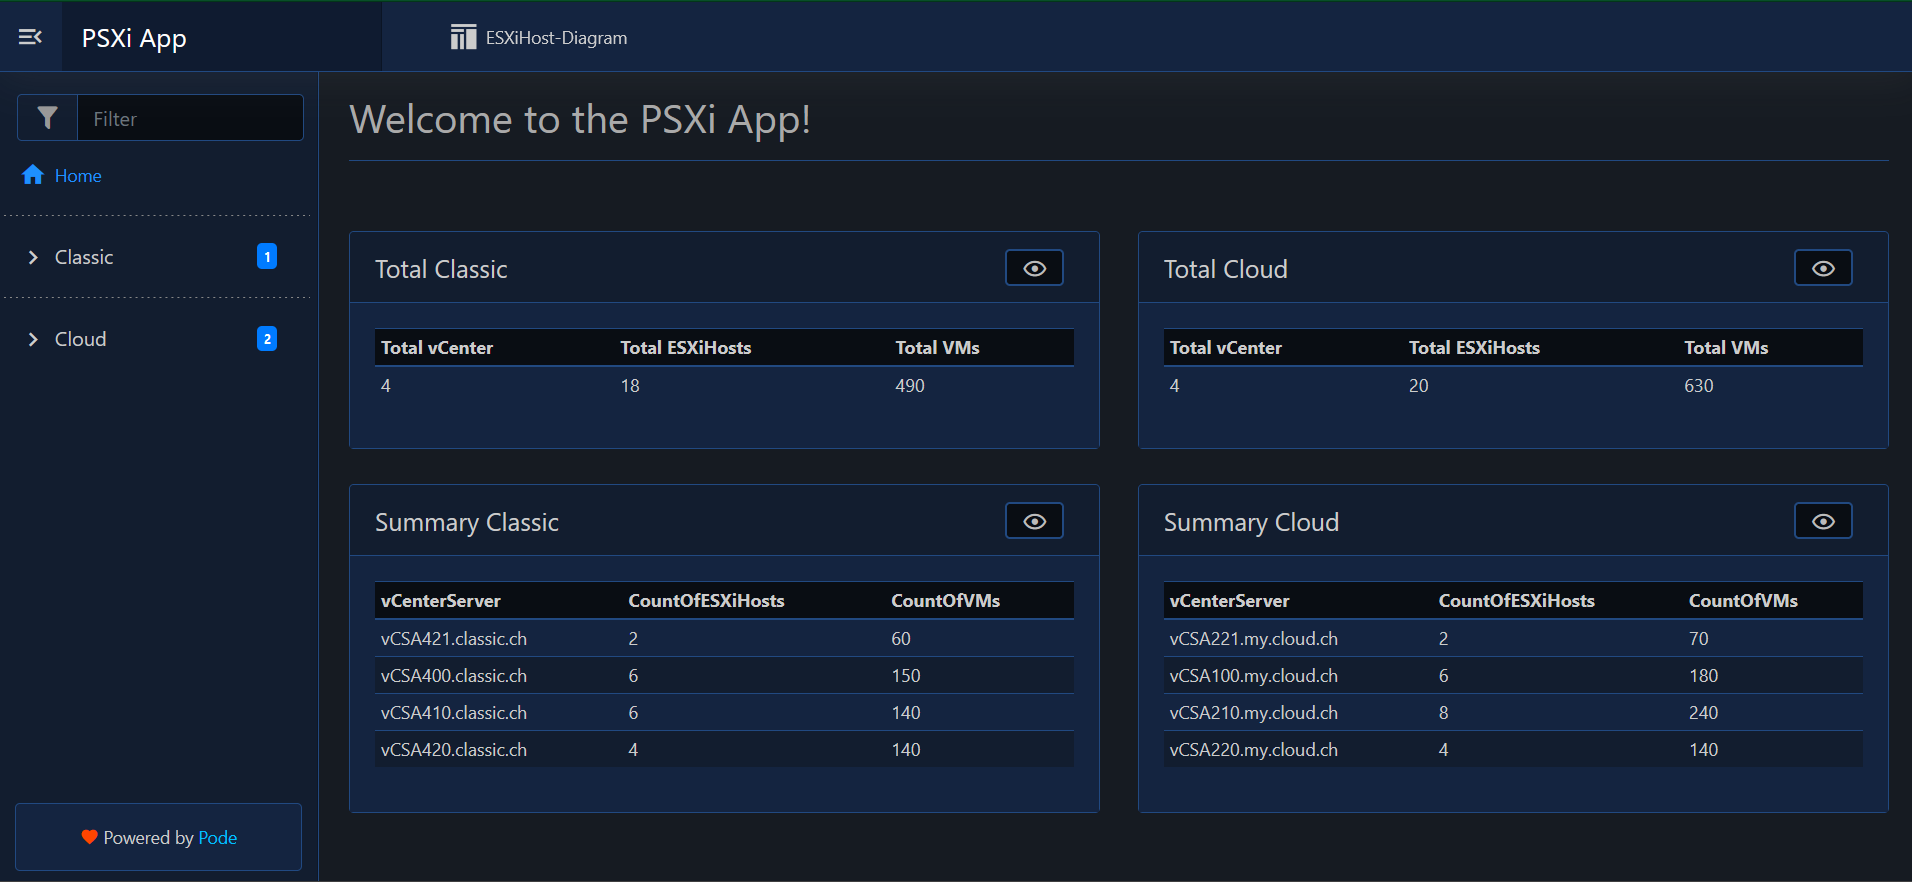
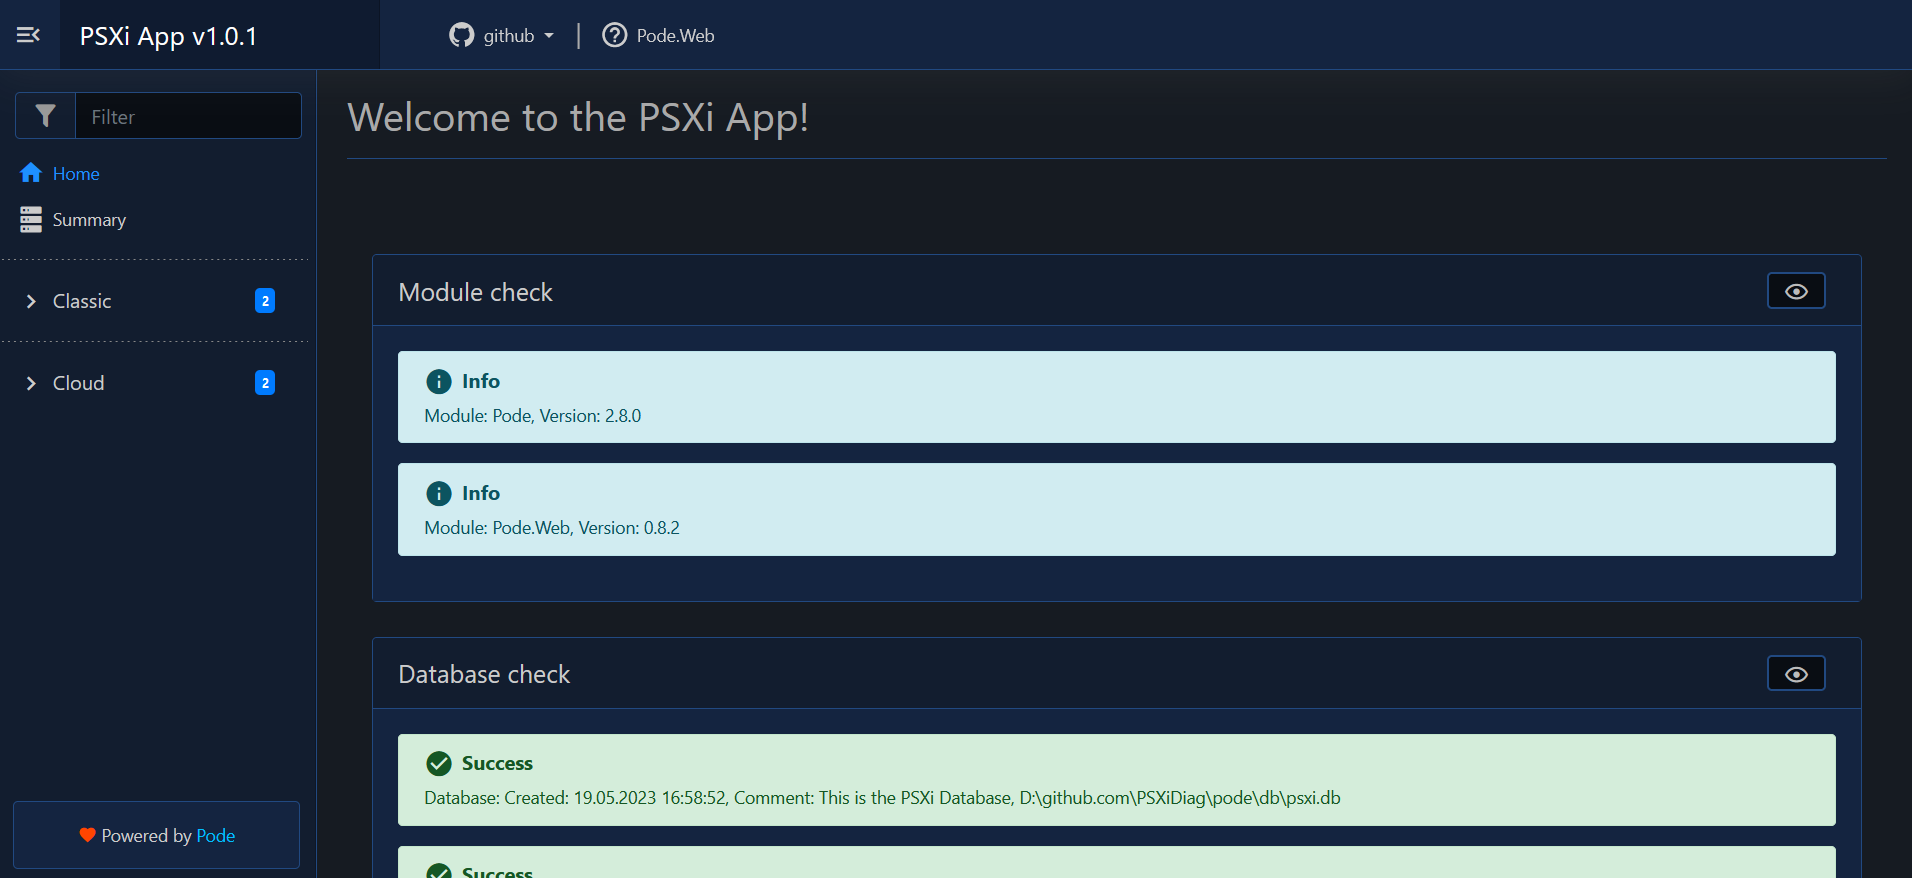
Update to v1.0.1

diff --git a/pode/views/Cloud-ESXiHost-Diagram.html b/pode/views/Cloud-ESXiHost-Diagram.html
@@ -1,4 +1,4 @@
-<html ><head ><meta charset="UTF-8"  /><meta name="author" content="Martin Walther"  /><meta name="keywords" content="PSHTML, PowerShell, Mermaid Diagram"  /><meta name="description" content="PsMmaDiagram builds Mermaid Diagrams as HTML-Files with PSHTML from native PowerShell-Scripts"  /><link href="\assets\BootStrap\bootstrap.min.css" rel="stylesheet"  /><link href="\assets\style\style.css" rel="stylesheet"  /><script src="\assets\BootStrap\bootstrap.js"  ></script><script src="\assets\Jquery\jquery.min.js"  ></script><script src="\assets\mermaid\mermaid.min.js"  ></script><script src="mermaid.initialize({startOnLoad:true})"  ></script><title >New-PshtmlESXiDiag for Pode server</title></head><Body ><Section Id="section"  ><nav Class="navbar navbar-expand-sm bg-dark navbar-dark sticky-top"  ><a href="#" Target="_self" Class="navbar-brand"  >HOME</a><button Class="navbar-toggler" type="button" data-toggle="collapse" data-target="#collapsibleNavbar"  ><span Class="navbar-toggler-icon"  ></span></button><div Id="collapsibleNavbar" Class="collapse navbar-collapse"  ><ul Class="navbar-nav"  ><li Class="nav-item"  ><a href="#VCSA00DEV" Target="_self" Class="nav-link"  >VCSA00DEV</a></li><li Class="nav-item"  ><a href="#VCSA00INT" Target="_self" Class="nav-link"  >VCSA00INT</a></li><li Class="nav-item"  ><a href="#VCSA10PRD" Target="_self" Class="nav-link"  >VCSA10PRD</a></li><li Class="nav-item"  ><a href="#VCSA21PRD" Target="_self" Class="nav-link"  >VCSA21PRD</a></li></ul></div></nav><div Class="container-fluid" Style="background-color:#142440"  ><div Id="Content" Class="container-fluid" Style="background-color:#142440"  ><article Id="mermaid"  ><h3 Id="VCSA00DEV" Style="text-align: center"  ><a href="https://vcsa00dev.cloud.ch/ui/" Target="_blank"  >vCenter VCSA00DEV</a></h3><hr /><p Style="color:#ccc"  >Total in VCSA00DEV:  <span Class="badge bg-info"  >2 Cluster</span> <span Class="badge bg-primary"  >7 ESXiHosts</span> <span Class="badge bg-danger"  >6.5.0 (1)</span> <span Class="badge bg-warning"  >6.7.0 (6)</span></p><div Class="mermaid" Style="text-align: center"  >classDiagram
+<html ><head ><meta charset="UTF-8"  /><meta name="author" content="Martin Walther"  /><meta name="keywords" content="PSHTML, PowerShell, Mermaid Diagram"  /><meta name="description" content="PsMmaDiagram builds Mermaid Diagrams as HTML-Files with PSHTML from native PowerShell-Scripts"  /><link href="\assets\BootStrap\bootstrap.min.css" rel="stylesheet"  /><link href="\assets\style\style.css" rel="stylesheet"  /><script src="\assets\BootStrap\bootstrap.js"  ></script><script src="\assets\Jquery\jquery.min.js"  ></script><script src="\assets\mermaid\mermaid.min.js"  ></script><script src="mermaid.initialize({startOnLoad:true})"  ></script><title >New-PshtmlESXiDiag for Pode server</title></head><Body ><Section Id="section"  ><nav Class="navbar navbar-expand-sm bg-dark navbar-dark sticky-top"  ><a Class="navbar-brand" Target="_self" href="#"  >HOME</a><button Class="navbar-toggler" data-toggle="collapse" data-target="#collapsibleNavbar" type="button"  ><span Class="navbar-toggler-icon"  ></span></button><div Id="collapsibleNavbar" Class="collapse navbar-collapse"  ><ul Class="navbar-nav"  ><li Class="nav-item"  ><a Class="nav-link" Target="_self" href="#VCSA00DEV"  >VCSA00DEV</a></li><li Class="nav-item"  ><a Class="nav-link" Target="_self" href="#VCSA00INT"  >VCSA00INT</a></li><li Class="nav-item"  ><a Class="nav-link" Target="_self" href="#VCSA10PRD"  >VCSA10PRD</a></li><li Class="nav-item"  ><a Class="nav-link" Target="_self" href="#VCSA21PRD"  >VCSA21PRD</a></li></ul></div></nav><div Class="container-fluid" Style="background-color:#142440"  ><div Id="Content" Class="container-fluid" Style="background-color:#142440"  ><article Id="mermaid"  ><h3 Id="VCSA00DEV" Style="text-align: center"  ><a Target="_blank" href="https://vcsa00dev.cloud.ch/ui/"  >vCenter VCSA00DEV</a></h3><hr /><p Style="color:#ccc"  >Total in VCSA00DEV:  <span Class="badge bg-info"  >2 Cluster</span> <span Class="badge bg-primary"  >7 ESXiHosts</span> <span Class="badge bg-danger"  >6.5.0 (1)</span> <span Class="badge bg-warning"  >6.7.0 (6)</span></p><div Class="mermaid" Style="text-align: center"  >classDiagram
 VC1_VCSA00DEV -- VC1C1_Development
 VC1_VCSA00DEV : + Development
 VC1C1_Development : + ProLiant BL460c G6
@@ -30,7 +30,7 @@ VC1C2_ProLiant DL380 G7 -- VC1C2_Connected
 VC1C2_Connected : - esxi551, ESXi 6.7.0, ProLiant DL380 G7
 VC1C2_Connected : - esxi552, ESXi 6.7.0, ProLiant DL380 G7
 VC1C2_Connected : - esxi553, ESXi 6.7.0, ProLiant DL380 G7
-</div></article></div><div Id="Content" Class="container-fluid" Style="background-color:#142440"  ><article Id="mermaid"  ><h3 Id="VCSA00INT" Style="text-align: center"  ><a href="https://vcsa00int.cloud.ch/ui/" Target="_blank"  >vCenter VCSA00INT</a></h3><hr /><p Style="color:#ccc"  >Total in VCSA00INT:  <span Class="badge bg-info"  >1 Cluster</span> <span Class="badge bg-primary"  >6 ESXiHosts</span> <span Class="badge bg-success"  >7.0.3 (6)</span></p><div Class="mermaid" Style="text-align: center"  >classDiagram
+</div></article></div><div Id="Content" Class="container-fluid" Style="background-color:#142440"  ><article Id="mermaid"  ><h3 Id="VCSA00INT" Style="text-align: center"  ><a Target="_blank" href="https://vcsa00int.cloud.ch/ui/"  >vCenter VCSA00INT</a></h3><hr /><p Style="color:#ccc"  >Total in VCSA00INT:  <span Class="badge bg-info"  >1 Cluster</span> <span Class="badge bg-primary"  >6 ESXiHosts</span> <span Class="badge bg-success"  >7.0.3 (6)</span></p><div Class="mermaid" Style="text-align: center"  >classDiagram
 VC1_VCSA00INT -- VC1C1_vSAN
 VC1_VCSA00INT : + vSAN
 VC1C1_vSAN : + ProLiant DL380 Gen10
@@ -43,7 +43,7 @@ VC1C1_Maintenance : - esxi783, ESXi 7.0.3, ProLiant DL380 Gen10
 VC1C1_Maintenance : - esxi981, ESXi 7.0.3, ProLiant DL380 Gen10
 VC1C1_Maintenance : - esxi982, ESXi 7.0.3, ProLiant DL380 Gen10
 VC1C1_Maintenance : - esxi983, ESXi 7.0.3, ProLiant DL380 Gen10
-</div></article></div><div Id="Content" Class="container-fluid" Style="background-color:#142440"  ><article Id="mermaid"  ><h3 Id="VCSA10PRD" Style="text-align: center"  ><a href="https://vcsa10prd.cloud.ch/ui/" Target="_blank"  >vCenter VCSA10PRD</a></h3><hr /><p Style="color:#ccc"  >Total in VCSA10PRD:  <span Class="badge bg-info"  >7 Cluster</span> <span Class="badge bg-primary"  >51 ESXiHosts</span> <span Class="badge bg-danger"  >6.5.0 (31)</span> <span Class="badge bg-success"  >7.0.3 (20)</span></p><div Class="mermaid" Style="text-align: center"  >classDiagram
+</div></article></div><div Id="Content" Class="container-fluid" Style="background-color:#142440"  ><article Id="mermaid"  ><h3 Id="VCSA10PRD" Style="text-align: center"  ><a Target="_blank" href="https://vcsa10prd.cloud.ch/ui/"  >vCenter VCSA10PRD</a></h3><hr /><p Style="color:#ccc"  >Total in VCSA10PRD:  <span Class="badge bg-info"  >7 Cluster</span> <span Class="badge bg-primary"  >51 ESXiHosts</span> <span Class="badge bg-danger"  >6.5.0 (31)</span> <span Class="badge bg-success"  >7.0.3 (20)</span></p><div Class="mermaid" Style="text-align: center"  >classDiagram
 VC1_VCSA10PRD -- VC1C1_Backup
 VC1_VCSA10PRD : + Backup
 VC1C1_Backup : + ProLiant DL380 Gen10
@@ -153,7 +153,7 @@ VC1C7_Maintenance : - esxi707, ESXi 7.0.3, Synergy 480 Gen10
 VC1C7_Maintenance : - esxi708, ESXi 7.0.3, Synergy 480 Gen10
 VC1C7_Maintenance : - esxi907, ESXi 7.0.3, Synergy 480 Gen10
 VC1C7_Maintenance : - esxi908, ESXi 7.0.3, Synergy 480 Gen10
-</div></article></div><div Id="Content" Class="container-fluid" Style="background-color:#142440"  ><article Id="mermaid"  ><h3 Id="VCSA21PRD" Style="text-align: center"  ><a href="https://vcsa21prd.cloud.ch/ui/" Target="_blank"  >vCenter VCSA21PRD</a></h3><hr /><p Style="color:#ccc"  >Total in VCSA21PRD:  <span Class="badge bg-info"  >3 Cluster</span> <span Class="badge bg-primary"  >15 ESXiHosts</span> <span Class="badge bg-dark"  >6.0.0 (8)</span> <span Class="badge bg-danger"  >6.5.0 (7)</span></p><div Class="mermaid" Style="text-align: center"  >classDiagram
+</div></article></div><div Id="Content" Class="container-fluid" Style="background-color:#142440"  ><article Id="mermaid"  ><h3 Id="VCSA21PRD" Style="text-align: center"  ><a Target="_blank" href="https://vcsa21prd.cloud.ch/ui/"  >vCenter VCSA21PRD</a></h3><hr /><p Style="color:#ccc"  >Total in VCSA21PRD:  <span Class="badge bg-info"  >3 Cluster</span> <span Class="badge bg-primary"  >15 ESXiHosts</span> <span Class="badge bg-dark"  >6.0.0 (8)</span> <span Class="badge bg-danger"  >6.5.0 (7)</span></p><div Class="mermaid" Style="text-align: center"  >classDiagram
 VC1_VCSA21PRD -- VC1C1_Airlock
 VC1_VCSA21PRD : + Airlock
 VC1C1_Airlock : + ProLiant DL380p Gen8
@@ -191,4 +191,4 @@ VC1C3_ProLiant DL380p Gen8 -- VC1C3_Connected
 VC1C3_Connected : - esxi561, ESXi 6.0.0, ProLiant DL380p Gen8
 VC1C3_Connected : - esxi562, ESXi 6.5.0 6.0.0, ProLiant DL380p Gen8
 VC1C3_Connected : - esxi563, ESXi 6.0.0, ProLiant DL380p Gen8
-</div></article></div><hr /><div Id="Content" Class="container-fluid" Style="background-color:#142440"  ><article Id="ESXiHosts"  ><p Style="color:#ccc"  >Total: <span Class="badge bg-primary"  >79 ESXiHosts</span> <span Class="badge bg-dark"  >6.0.0 (8)</span> <span Class="badge bg-danger"  >6.5.0 (39)</span> <span Class="badge bg-warning"  >6.7.0 (6)</span> <span Class="badge bg-success"  >7.0.3 (26)</span></p></article></div></div></Section></Body><div Class="container-fluid"  ><footer ><div Class="container-fluid"  ><div Class="row align-items-center"  ><div Class="col-md"  ><p ><a href="#" Target="_self"  >I ♥ PS ></a></p></div><div Class="col-md"  ></div><div Class="col-md" Style="color:#ccc"  ><p >19.05.2023 11:55:33</p></div></div></div></footer></div></html>
+</div></article></div><hr /><div Id="Content" Class="container-fluid" Style="background-color:#142440"  ><article Id="ESXiHosts"  ><p Style="color:#ccc"  >Total: <span Class="badge bg-primary"  >79 ESXiHosts</span> <span Class="badge bg-dark"  >6.0.0 (8)</span> <span Class="badge bg-danger"  >6.5.0 (39)</span> <span Class="badge bg-warning"  >6.7.0 (6)</span> <span Class="badge bg-success"  >7.0.3 (26)</span></p></article></div></div></Section></Body><div Class="container-fluid"  ><footer ><div Class="container-fluid"  ><div Class="row align-items-center"  ><div Class="col-md"  ><p ><a Target="_self" href="#"  >I ♥ PS ></a></p></div><div Class="col-md"  ></div><div Class="col-md" Style="color:#ccc"  ><p >19.05.2023 17:01:43</p></div></div></div></footer></div></html>

diff --git a/pode/views/Classic-ESXiHost-Diagram.html b/pode/views/Classic-ESXiHost-Diagram.html
@@ -1,4 +1,4 @@
-<html ><head ><meta charset="UTF-8"  /><meta name="author" content="Martin Walther"  /><meta name="keywords" content="PSHTML, PowerShell, Mermaid Diagram"  /><meta name="description" content="PsMmaDiagram builds Mermaid Diagrams as HTML-Files with PSHTML from native PowerShell-Scripts"  /><link rel="stylesheet" href="\assets\BootStrap\bootstrap.min.css"  /><link rel="stylesheet" href="\assets\style\style.css"  /><script src="\assets\BootStrap\bootstrap.js"  ></script><script src="\assets\Jquery\jquery.min.js"  ></script><script src="\assets\mermaid\mermaid.min.js"  ></script><script src="mermaid.initialize({startOnLoad:true})"  ></script><title >New-PshtmlESXiDiag for Pode server</title></head><Body ><Section Id="section"  ><nav Class="navbar navbar-expand-sm bg-dark navbar-dark sticky-top"  ><a Class="navbar-brand" Target="_self" href="#"  >HOME</a><button Class="navbar-toggler" type="button" data-toggle="collapse" data-target="#collapsibleNavbar"  ><span Class="navbar-toggler-icon"  ></span></button><div Class="collapse navbar-collapse" Id="collapsibleNavbar"  ><ul Class="navbar-nav"  ><li Class="nav-item"  ><a Class="nav-link" Target="_self" href="#VCSA400"  >VCSA400</a></li><li Class="nav-item"  ><a Class="nav-link" Target="_self" href="#VCSA410"  >VCSA410</a></li><li Class="nav-item"  ><a Class="nav-link" Target="_self" href="#VCSA420"  >VCSA420</a></li><li Class="nav-item"  ><a Class="nav-link" Target="_self" href="#VCSA421"  >VCSA421</a></li></ul></div></nav><div Class="container-fluid" Style="background-color:#142440"  ><div Class="container-fluid" Style="background-color:#142440" Id="Content"  ><article Id="mermaid"  ><h3 Style="text-align: center" Id="VCSA400"  ><a Target="_blank" href="https://vCSA400.classic.ch/ui/"  >vCenter VCSA400</a></h3><hr /><p Style="color:#ccc"  >Total in VCSA400:  <span Class="badge bg-info"  >2 Cluster</span> <span Class="badge bg-primary"  >6 ESXiHosts</span> <span Class="badge bg-warning"  >6.7 (6)</span></p><div Class="mermaid" Style="text-align: center"  >classDiagram
+<html ><head ><meta charset="UTF-8"  /><meta name="author" content="Martin Walther"  /><meta name="keywords" content="PSHTML, PowerShell, Mermaid Diagram"  /><meta name="description" content="PsMmaDiagram builds Mermaid Diagrams as HTML-Files with PSHTML from native PowerShell-Scripts"  /><link href="\assets\BootStrap\bootstrap.min.css" rel="stylesheet"  /><link href="\assets\style\style.css" rel="stylesheet"  /><script src="\assets\BootStrap\bootstrap.js"  ></script><script src="\assets\Jquery\jquery.min.js"  ></script><script src="\assets\mermaid\mermaid.min.js"  ></script><script src="mermaid.initialize({startOnLoad:true})"  ></script><title >New-PshtmlESXiDiag for Pode server</title></head><Body ><Section Id="section"  ><nav Class="navbar navbar-expand-sm bg-dark navbar-dark sticky-top"  ><a Class="navbar-brand" href="#" Target="_self"  >HOME</a><button Class="navbar-toggler" type="button" data-target="#collapsibleNavbar" data-toggle="collapse"  ><span Class="navbar-toggler-icon"  ></span></button><div Id="collapsibleNavbar" Class="collapse navbar-collapse"  ><ul Class="navbar-nav"  ><li Class="nav-item"  ><a Class="nav-link" href="#VCSA400" Target="_self"  >VCSA400</a></li><li Class="nav-item"  ><a Class="nav-link" href="#VCSA410" Target="_self"  >VCSA410</a></li><li Class="nav-item"  ><a Class="nav-link" href="#VCSA420" Target="_self"  >VCSA420</a></li><li Class="nav-item"  ><a Class="nav-link" href="#VCSA421" Target="_self"  >VCSA421</a></li></ul></div></nav><div Class="container-fluid" Style="background-color:#142440"  ><div Id="Content" Class="container-fluid" Style="background-color:#142440"  ><article Id="mermaid"  ><h3 Id="VCSA400" Style="text-align: center"  ><a href="https://vCSA400.classic.ch/ui/" Target="_blank"  >vCenter VCSA400</a></h3><hr /><p Style="color:#ccc"  >Total in VCSA400:  <span Class="badge bg-info"  >2 Cluster</span> <span Class="badge bg-primary"  >6 ESXiHosts</span> <span Class="badge bg-warning"  >6.7 (6)</span></p><div Class="mermaid" Style="text-align: center"  >classDiagram
 VC1_VCSA400 -- VC1C1_Linux
 VC1_VCSA400 : + Linux
 VC1C1_Linux : + ProLiant DL380 Gen9
@@ -21,7 +21,7 @@ VC1C2_Nord : + ESXi8998, ESXi 6.7, ProLiant DL380 Gen9
 VC1C2_ProLiant DL380 Gen9 : - Ost, 1 ESXi Hosts
 VC1C2_ProLiant DL380 Gen9 -- VC1C2_Ost
 VC1C2_Ost : + ESXi7999, ESXi 6.7, ProLiant DL380 Gen9
-</div></article></div><div Class="container-fluid" Style="background-color:#142440" Id="Content"  ><article Id="mermaid"  ><h3 Style="text-align: center" Id="VCSA410"  ><a Target="_blank" href="https://vCSA410.classic.ch/ui/"  >vCenter VCSA410</a></h3><hr /><p Style="color:#ccc"  >Total in VCSA410:  <span Class="badge bg-info"  >2 Cluster</span> <span Class="badge bg-primary"  >6 ESXiHosts</span> <span Class="badge bg-danger"  >6.5 (4)</span> <span Class="badge bg-warning"  >6.7 (2)</span></p><div Class="mermaid" Style="text-align: center"  >classDiagram
+</div></article></div><div Id="Content" Class="container-fluid" Style="background-color:#142440"  ><article Id="mermaid"  ><h3 Id="VCSA410" Style="text-align: center"  ><a href="https://vCSA410.classic.ch/ui/" Target="_blank"  >vCenter VCSA410</a></h3><hr /><p Style="color:#ccc"  >Total in VCSA410:  <span Class="badge bg-info"  >2 Cluster</span> <span Class="badge bg-primary"  >6 ESXiHosts</span> <span Class="badge bg-danger"  >6.5 (4)</span> <span Class="badge bg-warning"  >6.7 (2)</span></p><div Class="mermaid" Style="text-align: center"  >classDiagram
 VC1_VCSA410 -- VC1C1_Linux
 VC1_VCSA410 : + Linux
 VC1C1_Linux : + ProLiant XL170r Gen9
@@ -46,7 +46,7 @@ VC1C2_Windows -- VC1C2_ProLiant XL170r Gen9
 VC1C2_ProLiant XL170r Gen9 : - Nord, 1 ESXi Hosts
 VC1C2_ProLiant XL170r Gen9 -- VC1C2_Nord
 VC1C2_Nord : + ESXi8220, ESXi 6.7, ProLiant XL170r Gen9
-</div></article></div><div Class="container-fluid" Style="background-color:#142440" Id="Content"  ><article Id="mermaid"  ><h3 Style="text-align: center" Id="VCSA420"  ><a Target="_blank" href="https://vCSA420.classic.ch/ui/"  >vCenter VCSA420</a></h3><hr /><p Style="color:#ccc"  >Total in VCSA420:  <span Class="badge bg-info"  >1 Cluster</span> <span Class="badge bg-primary"  >4 ESXiHosts</span> <span Class="badge bg-warning"  >6.7 (4)</span></p><div Class="mermaid" Style="text-align: center"  >classDiagram
+</div></article></div><div Id="Content" Class="container-fluid" Style="background-color:#142440"  ><article Id="mermaid"  ><h3 Id="VCSA420" Style="text-align: center"  ><a href="https://vCSA420.classic.ch/ui/" Target="_blank"  >vCenter VCSA420</a></h3><hr /><p Style="color:#ccc"  >Total in VCSA420:  <span Class="badge bg-info"  >1 Cluster</span> <span Class="badge bg-primary"  >4 ESXiHosts</span> <span Class="badge bg-warning"  >6.7 (4)</span></p><div Class="mermaid" Style="text-align: center"  >classDiagram
 VC1_VCSA420 -- VC1C1_Oracle
 VC1_VCSA420 : + Oracle
 VC1C1_Oracle : + ProLiant DL380 Gen10
@@ -61,7 +61,7 @@ VC1C1_Ost : + ESXi7902, ESXi 6.7, ProLiant DL380 Gen10
 VC1C1_ProLiant DL380 Gen10 : - West, 1 ESXi Hosts
 VC1C1_ProLiant DL380 Gen10 -- VC1C1_West
 VC1C1_West : + ESXi1902, ESXi 6.7, ProLiant DL380 Gen10
-</div></article></div><div Class="container-fluid" Style="background-color:#142440" Id="Content"  ><article Id="mermaid"  ><h3 Style="text-align: center" Id="VCSA421"  ><a Target="_blank" href="https://vCSA421.classic.ch/ui/"  >vCenter VCSA421</a></h3><hr /><p Style="color:#ccc"  >Total in VCSA421:  <span Class="badge bg-info"  >1 Cluster</span> <span Class="badge bg-primary"  >2 ESXiHosts</span> <span Class="badge bg-warning"  >6.7 (2)</span></p><div Class="mermaid" Style="text-align: center"  >classDiagram
+</div></article></div><div Id="Content" Class="container-fluid" Style="background-color:#142440"  ><article Id="mermaid"  ><h3 Id="VCSA421" Style="text-align: center"  ><a href="https://vCSA421.classic.ch/ui/" Target="_blank"  >vCenter VCSA421</a></h3><hr /><p Style="color:#ccc"  >Total in VCSA421:  <span Class="badge bg-info"  >1 Cluster</span> <span Class="badge bg-primary"  >2 ESXiHosts</span> <span Class="badge bg-warning"  >6.7 (2)</span></p><div Class="mermaid" Style="text-align: center"  >classDiagram
 VC1_VCSA421 -- VC1C1_Oracle
 VC1_VCSA421 : + Oracle
 VC1C1_Oracle : + ProLiant DL380 Gen10
@@ -72,4 +72,4 @@ VC1C1_Nord : + ESXi8911, ESXi 6.7, ProLiant DL380 Gen10
 VC1C1_ProLiant DL380 Gen10 : - Ost, 1 ESXi Hosts
 VC1C1_ProLiant DL380 Gen10 -- VC1C1_Ost
 VC1C1_Ost : + ESXi7912, ESXi 6.7, ProLiant DL380 Gen10
-</div></article></div><hr /><div Class="container-fluid" Style="background-color:#142440" Id="Content"  ><article Id="ESXiHosts"  ><p Style="color:#ccc"  >Total: <span Class="badge bg-primary"  >18 ESXiHosts</span> <span Class="badge bg-danger"  >6.5 (4)</span> <span Class="badge bg-warning"  >6.7 (14)</span></p></article></div></div></Section></Body><div Class="container-fluid"  ><footer ><div Class="container-fluid"  ><div Class="row align-items-center"  ><div Class="col-md"  ><p ><a Target="_self" href="#"  >I ♥ PS ></a></p></div><div Class="col-md"  ></div><div Class="col-md" Style="color:#ccc"  ><p >19.05.2023 11:55:48</p></div></div></div></footer></div></html>
+</div></article></div><hr /><div Id="Content" Class="container-fluid" Style="background-color:#142440"  ><article Id="ESXiHosts"  ><p Style="color:#ccc"  >Total: <span Class="badge bg-primary"  >18 ESXiHosts</span> <span Class="badge bg-danger"  >6.5 (4)</span> <span Class="badge bg-warning"  >6.7 (14)</span></p></article></div></div></Section></Body><div Class="container-fluid"  ><footer ><div Class="container-fluid"  ><div Class="row align-items-center"  ><div Class="col-md"  ><p ><a href="#" Target="_self"  >I ♥ PS ></a></p></div><div Class="col-md"  ></div><div Class="col-md" Style="color:#ccc"  ><p >19.05.2023 17:01:40</p></div></div></div></footer></div></html>

diff --git a/README.md b/README.md
@@ -5,6 +5,7 @@ We currently have ~150 ESXi Hosts across 12 vCenters in our environemnt. Whenerv
 - [PSXiDiag](#psxidiag)
   - [How it works](#how-it-works)
   - [PSXi Homepage](#psxi-homepage)
+  - [PSXi Summary](#psxi-summary)
   - [PSXi ESXi Inventory](#psxi-esxi-inventory)
   - [Mermaid Diagram](#mermaid-diagram)
 
@@ -24,34 +25,36 @@ The content of the CSV-file will be stored in a SQLite DB in seperated tabels fo
 
 ## PSXi Homepage
 
-This is the Homepage of the PSXi App. It shows you the summary of all vCenter, ESXiHosts and VMs.
+This is the Homepage of the PSXi App. It shows you the status of the Modules and the SQLite Database.
 
 ![PSXiHomePage](./img/PSXiHomePage.png)
 
-## PSXi ESXi Inventory
-
-If you click on this page, all ESXi Hosts of the Cloud will be grouped by vCenterServer.
-
-![PSXiEsxInventory](./img/PSXiEsxInventory.png)
+## PSXi Summary
 
 In the Summary, you can see the total of vCenter, and the count of each ESXiHost versions.
 
 ![PSXiEsxInventory](./img/PSXiSummaryEsxiHosts.png)
 
-You can search for the ESXiHost in the search box.
+## PSXi ESXi Inventory
+
+You can search for the ESXiHost in the search box in the pages Summary, Classic-/Cloud ESXi Host Table.
 
 ![PSXiEsxInventory](./img/PSXiSearchEsxiHosts.png)
 
-Each vCenter has it own tab where you can find all ESXiHosts.
+If you click on this page, all ESXi Hosts of the Classic will be grouped by vCenterServer.
+
+![PSXiEsxInventory](./img/PSXiEsxInventory.png)
+
+If you cklick on this page, each vCenter of the Cloud has it own tab where you can find all ESXiHosts.
 
 ![PSXiEsxInventory](./img/PSXivCenterTabs.png)
 
 ## Mermaid Diagram
 
-For each zones, there has a Mermaid-Class-Diagram for the vCenters. 
+For each zones, there is a Mermaid-Class-Diagram for each vCenter. 
 
 ![PSXiEsxInventory](./img/PSXiDiagramESXi.png)
 
-The Diagram is an iFrame to another page and it will be automatically genereate, if you put a new CSV-file into the folder where the FileWatcher is configured.
+The Diagram is an iFrame to another page and it will be automatically genereate, if you upload a new CSV-file into the folder where the FileWatcher is configured.
 
 [Top](#)

diff --git a/CHANGELOG.md b/CHANGELOG.md
@@ -1,0 +1,6 @@
+# Overview of all changes
+
+Version | Description | Date | Author
+-|-|-|-
+1.0.0 | Initial upload | 2023-05-19 | Martin Walther
+1.0.1 | Fix ID in Layouts and Elements of cloud_esxi_tbl.ps1 and classic_esxi_tbl.ps1 | 2023-05-19 | Martin Walther
